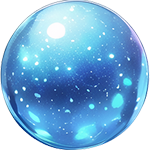
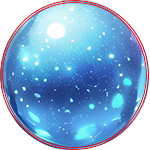
修改部分弹幕样式以提高对比度 修复一个性能问题

Changed region(s): [[0.0, 0.0, 1.0, 1.0]]

diff --git a/game.py b/game.py
@@ -504,6 +504,7 @@ class Bullet(pygame.sprite.Sprite):  # 子弹类
                 self.image, (color[0]+14, color[1]+14, color[2]+14), (width/2, height/2), width/3)
             pygame.draw.circle(self.image, 'WHITE',
                                (width/2, height/2), width/2-2, 1)
+            pygame.draw.circle(self.image, 'RED', (width/2, height/2), width/2,2)
         elif shape == 0:
             self.image.fill("BLACK")
             self.image.set_colorkey("BLACK")
@@ -1095,11 +1096,12 @@ class Enemy(pygame.sprite.Sprite):  # 敌人类
             for i in range(2):
                 tmp_vec1 = V2(
                     random.uniform(-1, 1), random.uniform(-1, 1)).normalize() * (2 + i)
+                # 生成两个随机数，使这三个数相加等于48
+                r = random.randint(0, 24)
+                g = random.randint(0, 24 - r)
+                b = 24
                 enemyBulletGroup.add(
-                    Bullet(1, ((random.randint(0, 240)), (random.randint(0, 240)), (random.randint(
-                        0, 240))), 20, 20, V2(self.posvec), tmp_vec1, 1, 0, 0, V2(0, 0)),
-                    Bullet(1, ((random.randint(0, 240)), (random.randint(0, 240)), (random.randint(
-                        0, 240))), 20, 20, V2(self.posvec), tmp_vec1, 1, 0, 0, V2(0, 0))
+                    Bullet(1, (r * 10, g * 10, b * 10), 20, 20, V2(self.posvec), tmp_vec1, 1, 0, 0, V2(0, 0))
             )
 
         if self.spell == 2:
